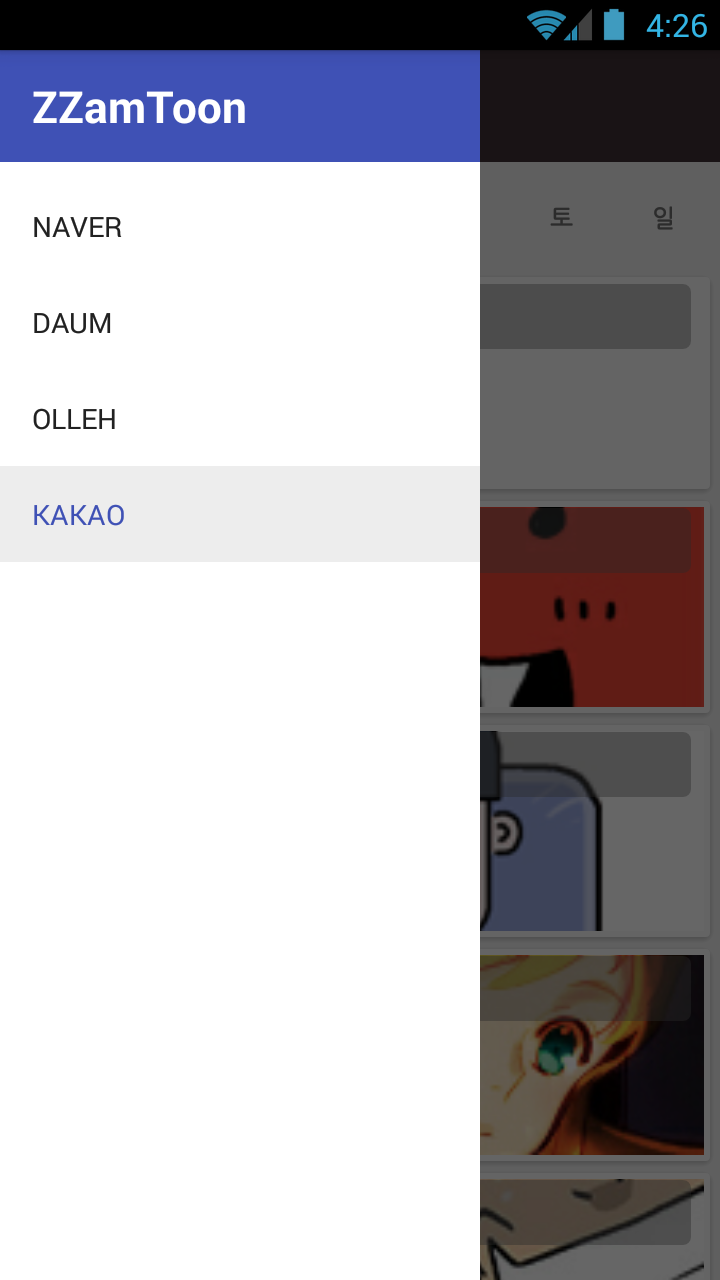
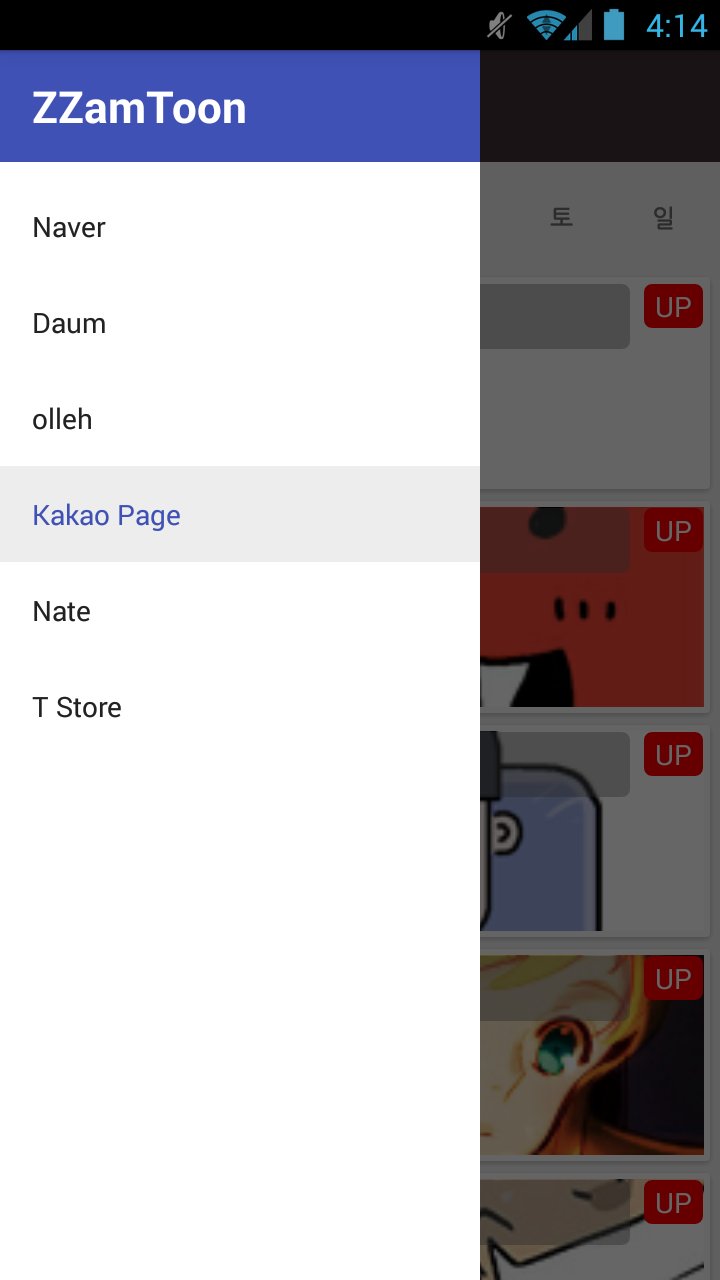
Supported Update

diff --git a/project/project-webtoon.md b/project/project-webtoon.md
@@ -17,17 +17,21 @@ date: 2015-04-07 17:41:00
 
 ##지원 웹툰
 
-1. 네이버
-2. 다음
-3. 올레
+1. 네이버 웹툰
+2. 다음 웹툰
+3. 올레 웹툰
 4. 카카오 페이지 만화
+5. 네이트 웹툰
+6. T 스토어 웹툰
 
 ##사용 기술
 
 1. Jsoup
 2. Picasso
-3. sqlite3
-4. ViewPagerIndicator
+3. butterknife
+4. sqlbrite
+5. ViewPagerIndicator
+6. rxjava
 
 ##Screenshot
 
